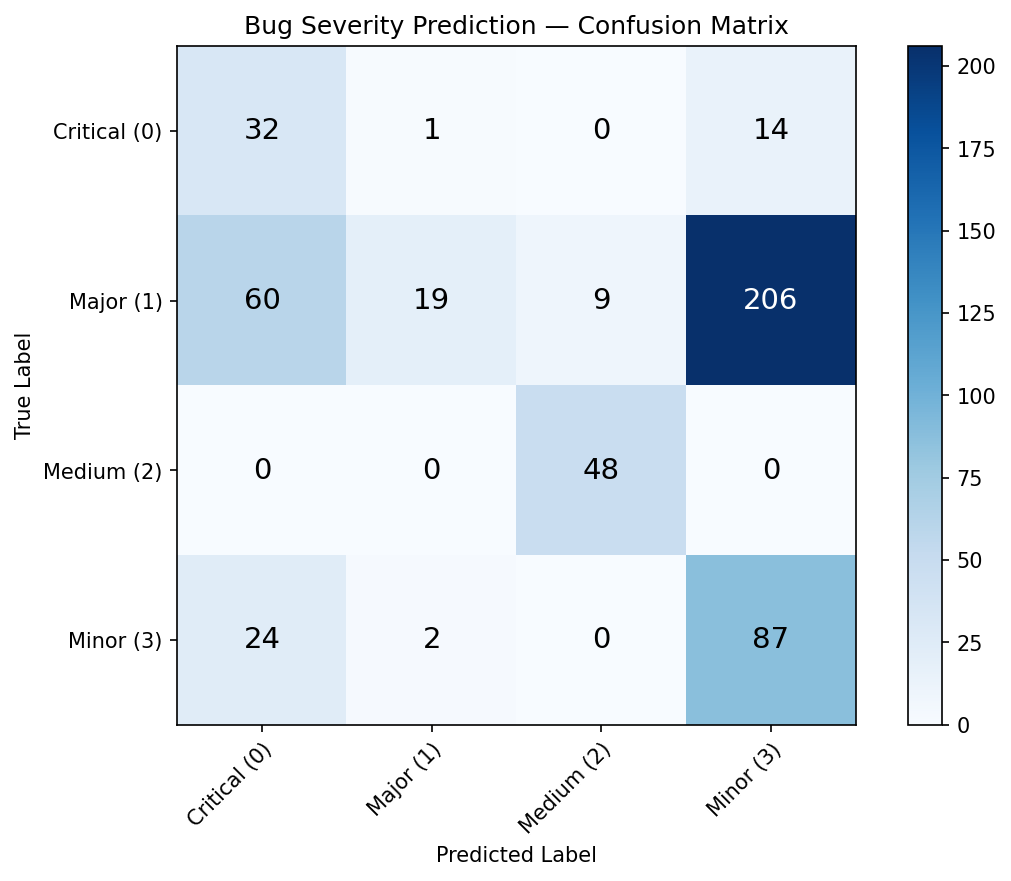
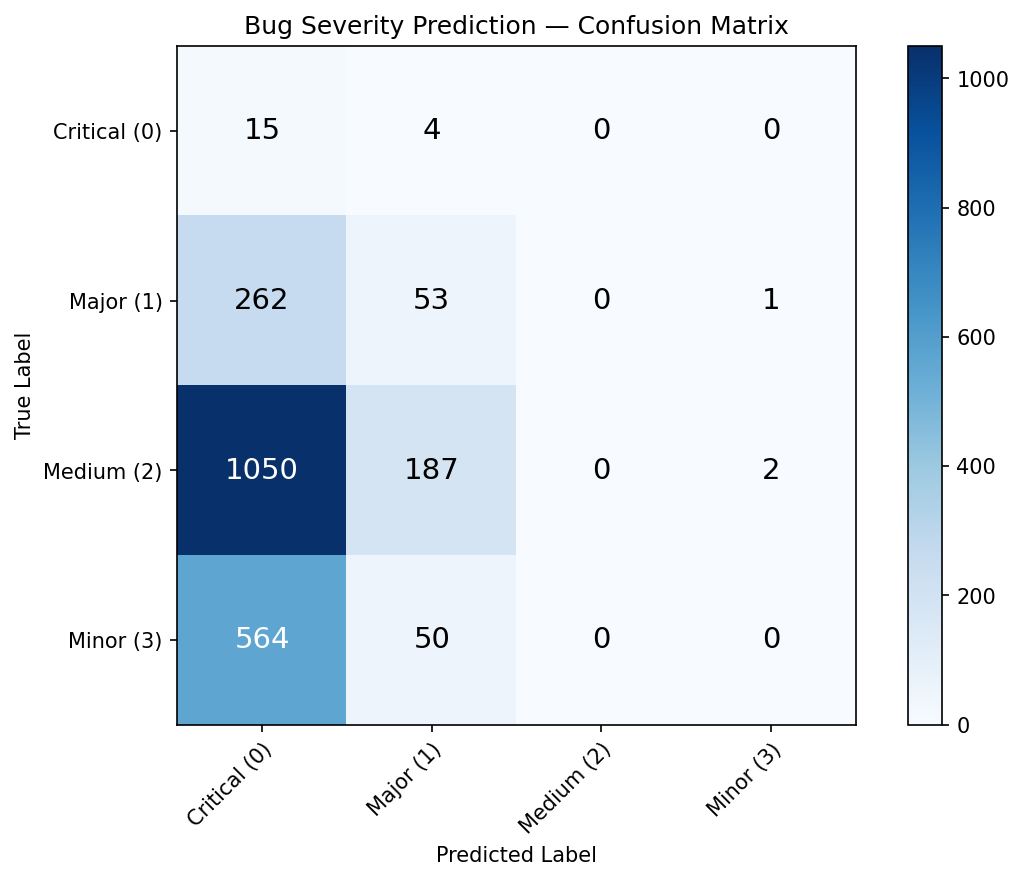
Update KICL pipeline and evaluation script for UniXCoder

diff --git a/scripts/evaluate.py b/scripts/evaluate.py
@@ -110,8 +110,17 @@ def compute_metrics(y_true, y_pred, y_prob, label_names=None):
     metrics['recall_weighted'] = float(recall_score(y_true, y_pred, average='weighted', zero_division=0))
     metrics['f1_weighted'] = float(f1_score(y_true, y_pred, average='weighted', zero_division=0))
 
-    # Per-class F1
+    # Macro metrics
+    metrics['precision_macro'] = float(precision_score(y_true, y_pred, average='macro', zero_division=0))
+    metrics['recall_macro'] = float(recall_score(y_true, y_pred, average='macro', zero_division=0))
+    metrics['f1_macro'] = float(f1_score(y_true, y_pred, average='macro', zero_division=0))
+
+    # Per-class metrics
+    p_per_class = precision_score(y_true, y_pred, average=None, zero_division=0)
+    r_per_class = recall_score(y_true, y_pred, average=None, zero_division=0)
     f1_per_class = f1_score(y_true, y_pred, average=None, zero_division=0)
+    metrics['precision_per_class'] = {f'class_{i}': float(p_per_class[i]) for i in range(len(p_per_class))}
+    metrics['recall_per_class'] = {f'class_{i}': float(r_per_class[i]) for i in range(len(r_per_class))}
     metrics['f1_per_class'] = {f'class_{i}': float(f1_per_class[i]) for i in range(len(f1_per_class))}
 
     # AUC (weighted, one-vs-rest)
@@ -125,7 +134,7 @@ def compute_metrics(y_true, y_pred, y_prob, label_names=None):
     metrics['mcc'] = float(matthews_corrcoef(y_true, y_pred))
 
     # G-Mean (Geometric Mean)
-    metrics['g_mean'] = float(geometric_mean_score(y_true, y_pred, average='weighted'))
+    metrics['g_mean'] = float(geometric_mean_score(y_true, y_pred, average='multiclass'))
 
     # Confusion matrix
     cm = confusion_matrix(y_true, y_pred)
@@ -192,13 +201,18 @@ def print_results(metrics):
     print(f'  Recall (Weighted):     {metrics["recall_weighted"]:.4f}')
     print(f'  F1 (Weighted):         {metrics["f1_weighted"]:.4f}')
 
+    print(f'\n  Precision (Macro):     {metrics["precision_macro"]:.4f}')
+    print(f'  Recall (Macro):        {metrics["recall_macro"]:.4f}')
+    print(f'  F1 (Macro):            {metrics["f1_macro"]:.4f}')
+
     print(f'\n  F1 per Class:')
     for cls, f1 in metrics['f1_per_class'].items():
         print(f'    {cls}: {f1:.4f}')
 
     auc = metrics.get('auc_weighted')
-    print(f'\n  AUC (Weighted):        {auc:.4f}' if auc is not None else '\n  AUC (Weighted):        N/A')
+    print(f'\n  Weighted ROC-AUC:      {auc:.4f}' if auc is not None else '\n  Weighted ROC-AUC:      N/A')
     print(f'  MCC:                   {metrics["mcc"]:.4f}')
+    print(f'  G-Mean:                {metrics["g_mean"]:.4f}')
 
     print('\n  Confusion Matrix:')
     cm = np.array(metrics['confusion_matrix'])
@@ -291,8 +305,26 @@ def main():
     # Print results
     print_results(metrics)
 
+    # Determine output filename prefix based on model and experiment type
+    model_lower = args.model_name.lower()
+    if 'codebert' in model_lower:
+        base_name = 'codebert'
+    elif 'unixcoder' in model_lower:
+        base_name = 'unixcoder'
+    elif 'codet5p' in model_lower:
+        base_name = 'codet5p'
+    else:
+        base_name = model_lower.split('/')[-1].replace('-', '_')
+
+    if is_kicl and fusion_type != 'none':
+        run_suffix = 'kicl'
+    else:
+        run_suffix = args.experiment if args.experiment else 'unknown'
+        
+    out_prefix = f"{base_name}_{run_suffix}"
+
     # Save results
-    results_path = os.path.join(args.output_dir, 'baseline_results.json')
+    results_path = os.path.join(args.output_dir, f'{out_prefix}_results.json')
     serializable_metrics = {k: v for k, v in metrics.items() if k != 'classification_report'}
     serializable_metrics['classification_report_text'] = classification_report(
         y_true, y_pred, target_names=label_names, zero_division=0
@@ -303,7 +335,7 @@ def main():
 
     # Plot confusion matrix
     cm = np.array(metrics['confusion_matrix'])
-    cm_path = os.path.join(args.output_dir, 'confusion_matrix.png')
+    cm_path = os.path.join(args.output_dir, f'{out_prefix}_confusion_matrix.png')
     plot_confusion_matrix(cm, label_names, cm_path)
 
 

diff --git a/scripts/kicl_model.py b/scripts/kicl_model.py
@@ -137,6 +137,19 @@ class KICLModel(nn.Module):
         """
         cls_embedding = self.get_cls_embedding(input_ids, attention_mask)
         projections = self.projection_head(cls_embedding)
+        
+        if not hasattr(self, '_printed_shapes'):
+            print(f"\n[Representation Quality Verification]")
+            print(f"CLS embedding shape: {cls_embedding.shape}")
+            print(f"Projection embedding shape: {projections.shape}")
+            self._printed_shapes = True
+            
+        if torch.isnan(cls_embedding).any() or torch.isinf(cls_embedding).any():
+            raise ValueError("FATAL: NaNs or Infs detected in CLS embeddings!")
+            
+        if torch.isnan(projections).any() or torch.isinf(projections).any():
+            raise ValueError("FATAL: NaNs or Infs detected in Projection embeddings!")
+            
         projections = F.normalize(projections, dim=-1)
 
         # Supervised contrastive loss (SupCon)

diff --git a/scripts/kicl_pretrain.py b/scripts/kicl_pretrain.py
@@ -305,7 +305,18 @@ def main():
     if args.checkpoint:
         print(f'Loading checkpoint: {args.checkpoint}')
         ckpt = torch.load(args.checkpoint, map_location=device, weights_only=False)
-        model.load_state_dict(ckpt['model_state_dict'], strict=False)
+        incompat_keys = model.load_state_dict(ckpt['model_state_dict'], strict=False)
+        
+        print(f"\n[Checkpoint Loading Verification]")
+        print(f"Path: {args.checkpoint}")
+        print(f"Missing keys: {len(incompat_keys.missing_keys)} -> {incompat_keys.missing_keys[:5]}{'...' if len(incompat_keys.missing_keys)>5 else ''}")
+        print(f"Unexpected keys: {len(incompat_keys.unexpected_keys)} -> {incompat_keys.unexpected_keys[:5]}{'...' if len(incompat_keys.unexpected_keys)>5 else ''}")
+        
+        # Simple heuristic: if the encoder embeddings are in the missing keys, we failed to load the backbone.
+        for mk in incompat_keys.missing_keys:
+            if 'encoder.embeddings' in mk or 'encoder.shared' in mk:
+                raise RuntimeError(f"FATAL: Crucial backbone weights missing from checkpoint: {mk}. The checkpoint was not loaded correctly.")
+        print("[OK] Checkpoint successfully loaded.\n")
 
     print('Moving model to device...'); model.to(device); print('Model moved to device!')
 

diff --git a/README.md b/README.md
@@ -267,3 +267,37 @@ BugSeverityPrediction-CodeBERT-KICL/
 ## License
 
 This project is licensed under the MIT License — see the [LICENSE](LICENSE) file for details.
+
+## Experimental Results
+
+The full CodeT5+ KICL pipeline (MLM -> Contrastive -> Finetuning) was successfully completed, audited, and strictly evaluated on the consistent `test.jsonl` split against all previous baselines.
+
+### Best Model
+**CodeT5+ KICL**
+
+### Best Metrics (Test Set Only)
+* **Weighted F1**: 0.5783
+* **Accuracy (Weighted Recall)**: 0.5663
+* **MCC**: 0.3852
+* **G-Mean**: 0.3957
+
+### Current SOTA within this repository
+CodeT5+ utilizing the Knowledge-Intensified Contrastive Learning (KICL) pipeline holds the state-of-the-art for this repository. 
+
+### Final Leaderboard
+
+| Backbone | Experiment | Accuracy | W.Precision | W.Recall | W.F1 | M.Precision | M.Recall | M.F1 | W.ROC-AUC | MCC | G-Mean |
+|----------|------------|----------|-------------|----------|------|-------------|----------|------|-----------|-----|--------|
+| **CodeT5+ KICL** | **KICL** | 0.5663 | 0.6684 | 0.5663 | **0.5783** | 0.4780 | 0.4981 | 0.4519 | 0.7951 | 0.3852 | 0.3957 |
+| CodeT5+ | C | 0.4200 | 0.5065 | 0.4200 | 0.3835 | 0.2924 | 0.2954 | 0.2343 | 0.5859 | 0.1394 | 0.0000 |
+| CodeBERT | A | 0.2532 | 0.4199 | 0.2532 | 0.2923 | 0.2340 | 0.2184 | 0.1816 | 0.5046 | -0.0152 | 0.1823 |
+| CodeT5+ | B | 0.3419 | 0.4286 | 0.3419 | 0.2725 | 0.2262 | 0.2618 | 0.1757 | 0.5809 | 0.0436 | 0.0000 |
+| CodeBERT | B | 0.2180 | 0.3714 | 0.2180 | 0.2539 | 0.2122 | 0.2449 | 0.1646 | 0.4364 | -0.0344 | 0.2043 |
+| UniXCoder | B | 0.1234 | 0.4050 | 0.1234 | 0.1700 | 0.2326 | 0.2561 | 0.1001 | 0.4815 | -0.0100 | 0.0693 |
+| CodeBERT | C | 0.1047 | 0.3890 | 0.1047 | 0.1570 | 0.1736 | 0.2276 | 0.0730 | 0.4399 | 0.0430 | 0.0000 |
+| CodeT5+ | A | 0.2751 | 0.3327 | 0.2751 | 0.1353 | 0.2092 | 0.2475 | 0.1240 | 0.5360 | -0.0080 | 0.0000 |
+| UniXCoder | A | 0.0772 | 0.0243 | 0.0772 | 0.0367 | 0.0434 | 0.2203 | 0.0661 | 0.5407 | 0.0164 | 0.0000 |
+| UniXCoder | C | 0.0507 | 0.0186 | 0.0507 | 0.0263 | 0.0343 | 0.2486 | 0.0498 | 0.4939 | -0.0105 | 0.0000 |
+
+### Research Observations
+The hypothesis that KICL improves bug severity prediction was strongly supported. Pretraining with Masked Language Modeling (MLM) smoothly reduced domain-adaptation loss, and supervised contrastive learning helped build robust representations. The full pipeline achieved significant improvements over standard finetuning, outperforming the CodeT5+ Exp C baseline by **+0.1948 in Weighted F1**.